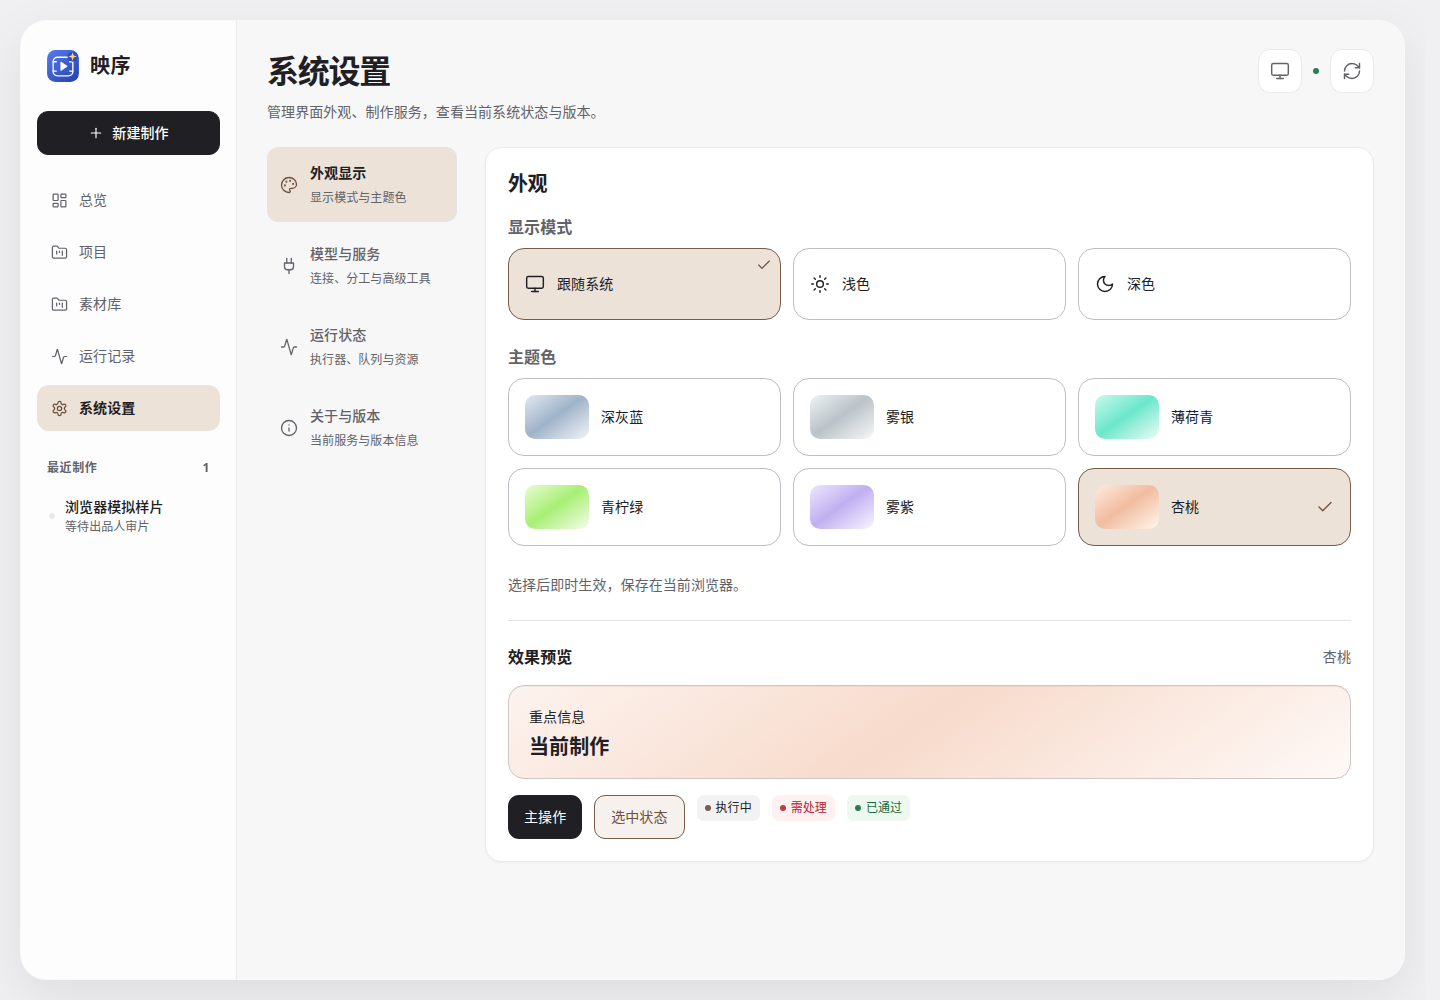
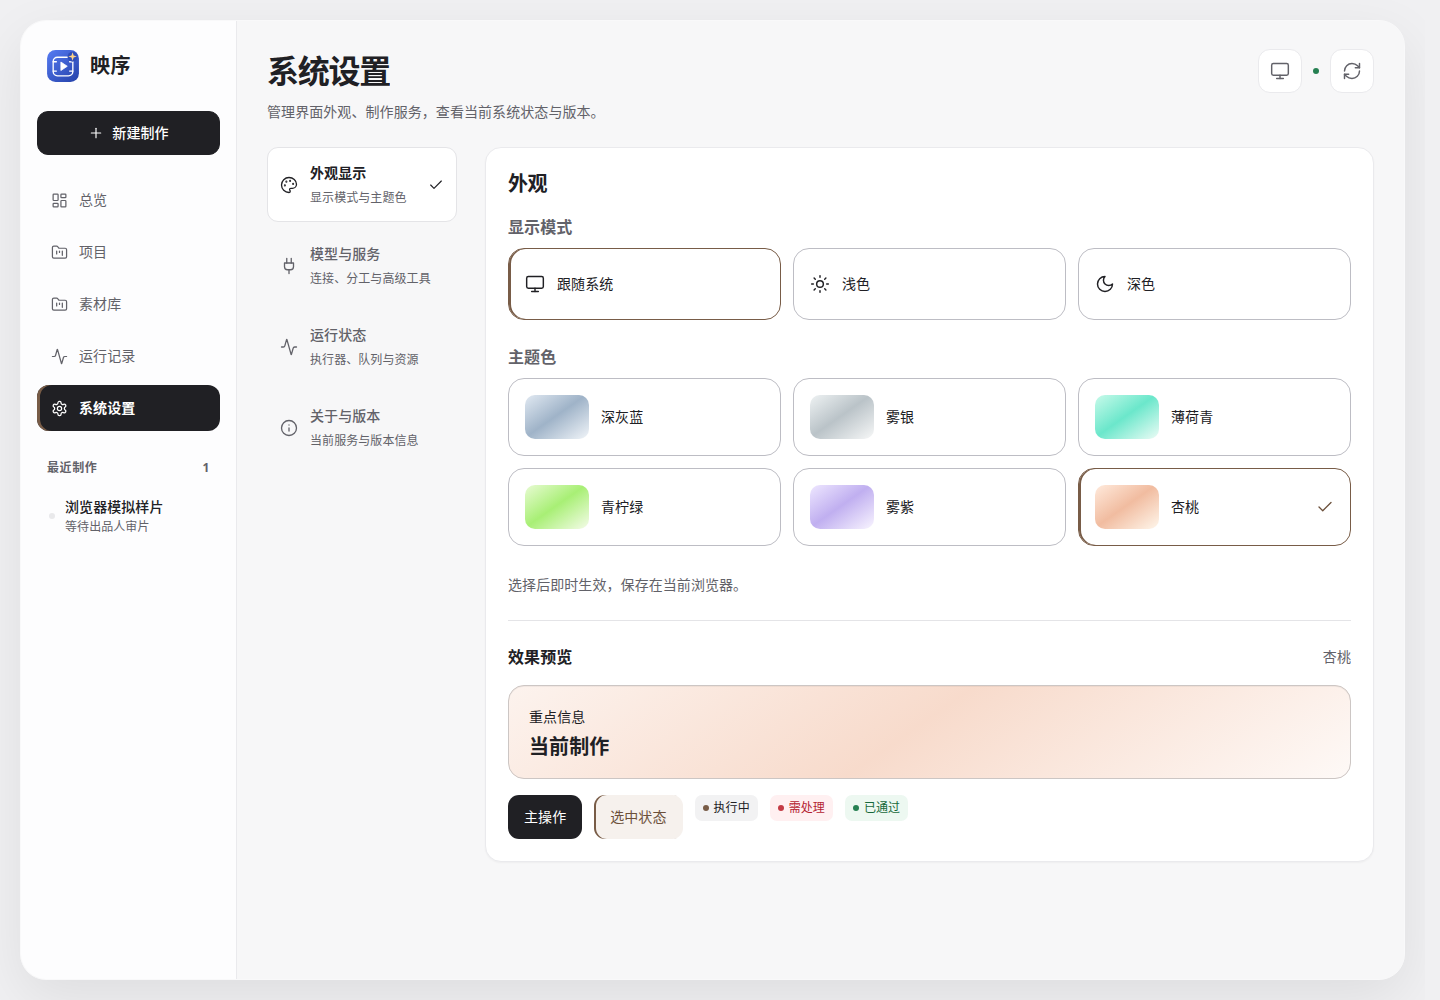
fix(ui): preserve monochrome navigation and refine only settings categories
Restore selection changes outside the requested secondary settings navigation. Give settings categories a neutral complete boundary and a checkmark. Refs #70 (0.1.9 user feedback).

diff --git a/ui/factory/src/styles/workflow.css b/ui/factory/src/styles/workflow.css
@@ -65,8 +65,8 @@
 }
 .workflow-stage-card.selected {
   border-color: var(--accent);
-  background: var(--selection);
-  box-shadow: none;
+  background: var(--panel);
+  box-shadow: inset 3px 0 var(--accent);
 }
 .workflow-stage-card:hover {
   border-color: var(--accent);
@@ -372,8 +372,8 @@
   box-shadow: none;
 }
 .workflow-map-node.selected {
-  background: var(--selection);
-  box-shadow: none;
+  background: var(--panel);
+  box-shadow: inset 3px 0 var(--accent);
 }
 .workflow-map-node-top {
   display: flex;
@@ -416,9 +416,9 @@
   border-color: var(--warning-line);
 }
 .workflow-repair-node.selected {
-  background: var(--selection);
+  background: var(--panel);
   border-color: var(--accent);
-  box-shadow: none;
+  box-shadow: inset 3px 0 var(--accent);
 }
 .workflow-map-node.status-running {
   border-color: var(--status-running);
@@ -562,9 +562,9 @@
 }
 .workflow-stage-card.selected,
 .workflow-map-node.selected {
-  background: var(--selection);
+  background: var(--panel);
   border-color: var(--accent);
-  box-shadow: none;
+  box-shadow: inset 3px 0 var(--accent);
 }
 .context-manifest {
   margin-block: 10px;

diff --git a/ui/factory/src/appearance-settings.css b/ui/factory/src/appearance-settings.css
@@ -40,7 +40,8 @@
 .appearance-mode[data-selected="true"],
 .appearance-palette[data-selected="true"] {
   border-color: var(--accent);
-  background: var(--selection);
+  background: var(--panel);
+  box-shadow: inset 2px 0 var(--accent);
 }
 .appearance-mode:has(input:focus-visible),
 .appearance-palette:has(input:focus-visible) {
@@ -68,11 +69,6 @@
   margin-left: auto;
   color: var(--accent-text);
   flex-shrink: 0;
-}
-.appearance-mode .appearance-check {
-  position: absolute;
-  top: 8px;
-  right: 8px;
 }
 .appearance-storage {
   color: var(--muted);
@@ -114,7 +110,7 @@
 .appearance-preview-selection {
   background: var(--accent-soft);
   color: var(--accent-text);
-  border: 1px solid var(--accent);
+  box-shadow: inset 2px 0 var(--accent);
 }
 @media (max-width: 700px) {
   .appearance-palettes {

diff --git a/ui/factory/src/styles/studio-design.css b/ui/factory/src/styles/studio-design.css
@@ -57,13 +57,9 @@ body {
 }
 .nav-item.active,
 .nav-item.active:hover {
-  background: var(--selection);
-  color: var(--ink);
-  font-weight: 600;
+  background: var(--ink);
+  color: var(--panel);
   box-shadow: none;
-}
-.nav-item.active > svg {
-  color: var(--accent-text);
 }
 .nav-item.active .nav-count {
   background: color-mix(in srgb, var(--ink) 80%, var(--panel));
@@ -76,13 +72,11 @@ body {
   border-radius: 10px;
 }
 .project-item.active {
-  background: var(--selection);
-  color: var(--ink);
-  box-shadow: none;
+  background: var(--surface);
+  box-shadow: inset 3px 0 var(--accent);
 }
 .project-item.active strong {
   color: var(--ink);
-  font-weight: 600;
 }
 #workspace {
   padding: 28px 30px 36px;

diff --git a/ui/factory/src/SystemSettings.tsx b/ui/factory/src/SystemSettings.tsx
@@ -1,5 +1,5 @@
 import { useQuery } from "@tanstack/react-query";
-import { Activity, Info, Palette, Plug } from "lucide-react";
+import { Activity, Check, Info, Palette, Plug } from "lucide-react";
 import { AppearanceSettings } from "./AppearanceSettings";
 import { Models } from "./LazyViews";
 import { PageHeader } from "./PageHeader";
@@ -92,6 +92,7 @@ export function SystemSettings({
                 <strong>{label}</strong>
                 <small>{description}</small>
               </span>
+              {selected.id === id && <Check className="settings-category-check" size={16} aria-hidden="true" />}
             </button>
           ))}
         </nav>

diff --git a/ui/factory/src/styles/workspace.css b/ui/factory/src/styles/workspace.css
@@ -398,9 +398,9 @@
   border-color: var(--line);
 }
 .workflow-map-node.workflow-stage-card.selected {
-  background: var(--selection);
+  background: var(--panel);
   border-color: var(--accent);
-  box-shadow: none;
+  box-shadow: inset 3px 0 var(--accent);
 }
 .workflow-map-node.workflow-repair-node {
   background: var(--panel);
@@ -413,6 +413,11 @@
 }
 .delivery-specification {
   margin-top: 20px;
+}
+.nav-item.active,
+.project-item.active {
+  background: var(--ink);
+  color: var(--panel);
 }
 @media (min-width: 1024px) {
   #workspace {

diff --git a/ui/factory/src/system-settings.css b/ui/factory/src/system-settings.css
@@ -41,12 +41,16 @@
   color: var(--ink);
 }
 .settings-category[aria-current="page"] {
-  background: var(--selection);
+  background: var(--panel);
   color: var(--ink);
   border-color: var(--line);
 }
-.settings-category[aria-current="page"] > svg {
-  color: var(--accent-text);
+.settings-category > span {
+  flex: 1;
+  min-width: 0;
+}
+.settings-category-check {
+  color: var(--ink);
 }
 .settings-category[aria-current="page"] strong {
   font-weight: 600;

diff --git a/ui/factory/src/styles/collaboration.css b/ui/factory/src/styles/collaboration.css
@@ -258,9 +258,9 @@
   cursor: pointer;
 }
 .collaboration-handoff-row[aria-pressed="true"] {
-  box-shadow: inset 0 0 0 1px var(--accent);
-  border-radius: var(--control-radius);
-  background: var(--selection);
+  box-shadow: inset 3px 0 var(--accent);
+  padding-left: 12px;
+  background: var(--canvas);
 }
 .collaboration-handoff-row > span:first-child {
   display: flex;

diff --git a/ui/factory/src/styles/base.css b/ui/factory/src/styles/base.css
@@ -1690,9 +1690,8 @@ legend {
   border-bottom: 1px solid var(--line);
 }
 .shot-list-item.active {
-  background: var(--selection);
-  border-radius: var(--control-radius);
-  box-shadow: inset 0 0 0 1px var(--accent);
+  background: var(--surface);
+  box-shadow: inset 3px 0 var(--accent);
 }
 .shot-list-item strong {
   font-size: var(--text-ui);

diff --git a/ui/factory/src/AppearanceSettings.tsx b/ui/factory/src/AppearanceSettings.tsx
@@ -30,7 +30,6 @@ export function AppearanceSettings() {
                 />
                 <Icon size={20} aria-hidden="true" />
                 <span>{label}</span>
-                {preference === id && <Check className="appearance-check" size={16} aria-hidden="true" />}
               </label>
             ))}
           </div>

diff --git a/ui/factory/src/styles/theme-layout.css b/ui/factory/src/styles/theme-layout.css
@@ -179,6 +179,9 @@
 .project-subnavigation [aria-pressed="true"] {
   text-decoration-color: var(--accent);
 }
+.sidebar .nav-item.active {
+  box-shadow: inset 3px 0 var(--accent);
+}
 @media (max-width: 760px) {
   .work-focus,
   .dashboard-view .dashboard-focus {

diff --git a/ui/factory/src/styles/team.css b/ui/factory/src/styles/team.css
@@ -143,8 +143,8 @@
 }
 .team-task-button.selected {
   border-color: var(--accent);
-  background: var(--selection);
-  box-shadow: none;
+  background: var(--panel);
+  box-shadow: inset 3px 0 var(--accent);
 }
 .team-task-button > span {
   display: flex;

diff --git a/ui/factory/src/styles/fixed-workflow.css b/ui/factory/src/styles/fixed-workflow.css
@@ -151,7 +151,6 @@
   overflow: hidden;
 }
 .workflow-fixed-node.is-selected {
-  background: var(--selection);
   border-color: var(--focus);
   box-shadow: 0 0 0 2px color-mix(in srgb, var(--focus) 15%, transparent);
 }
